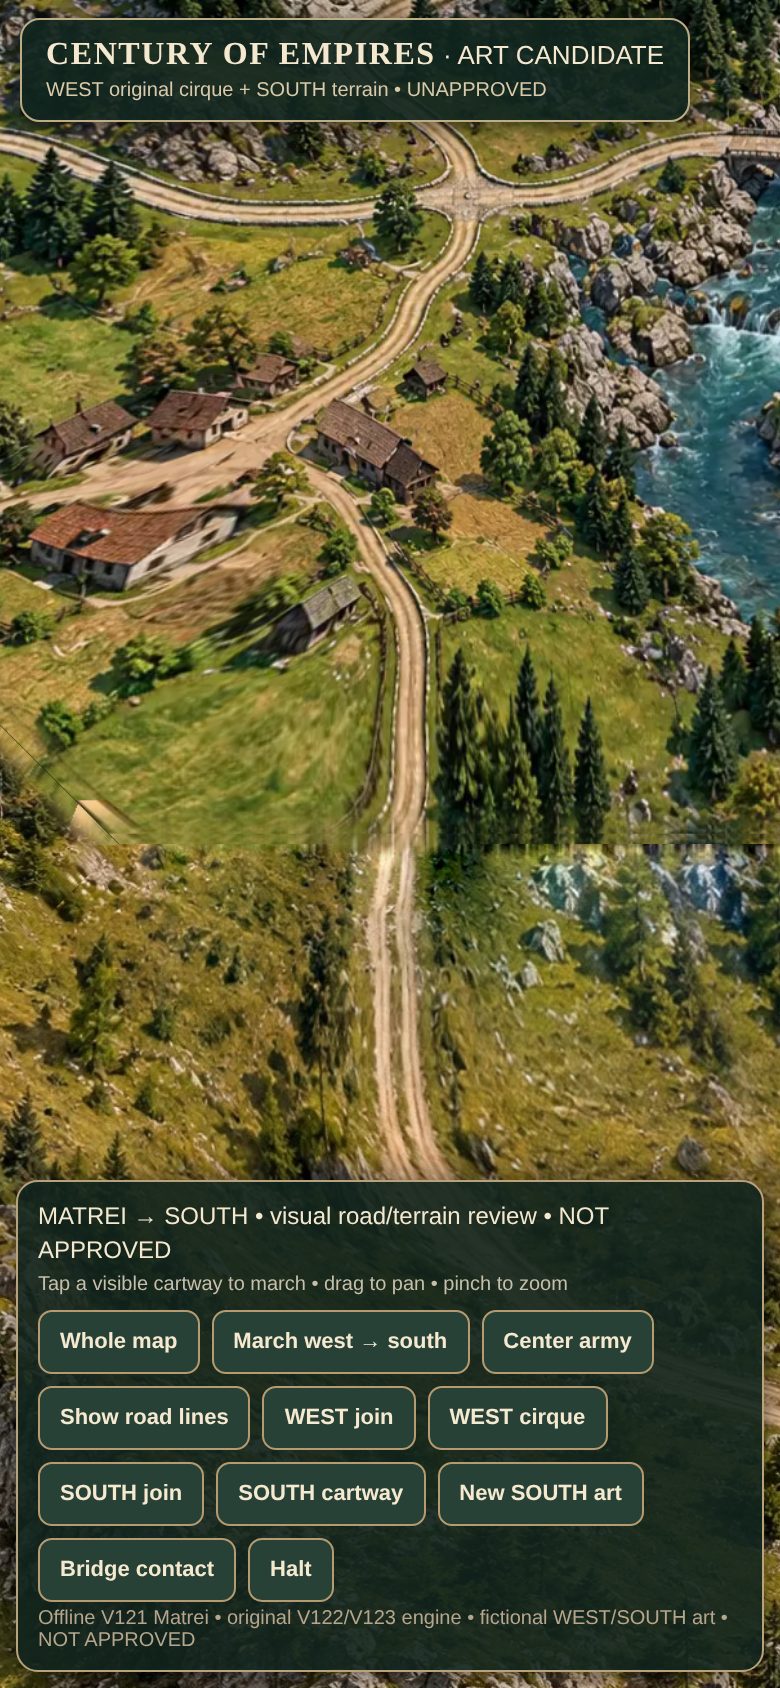
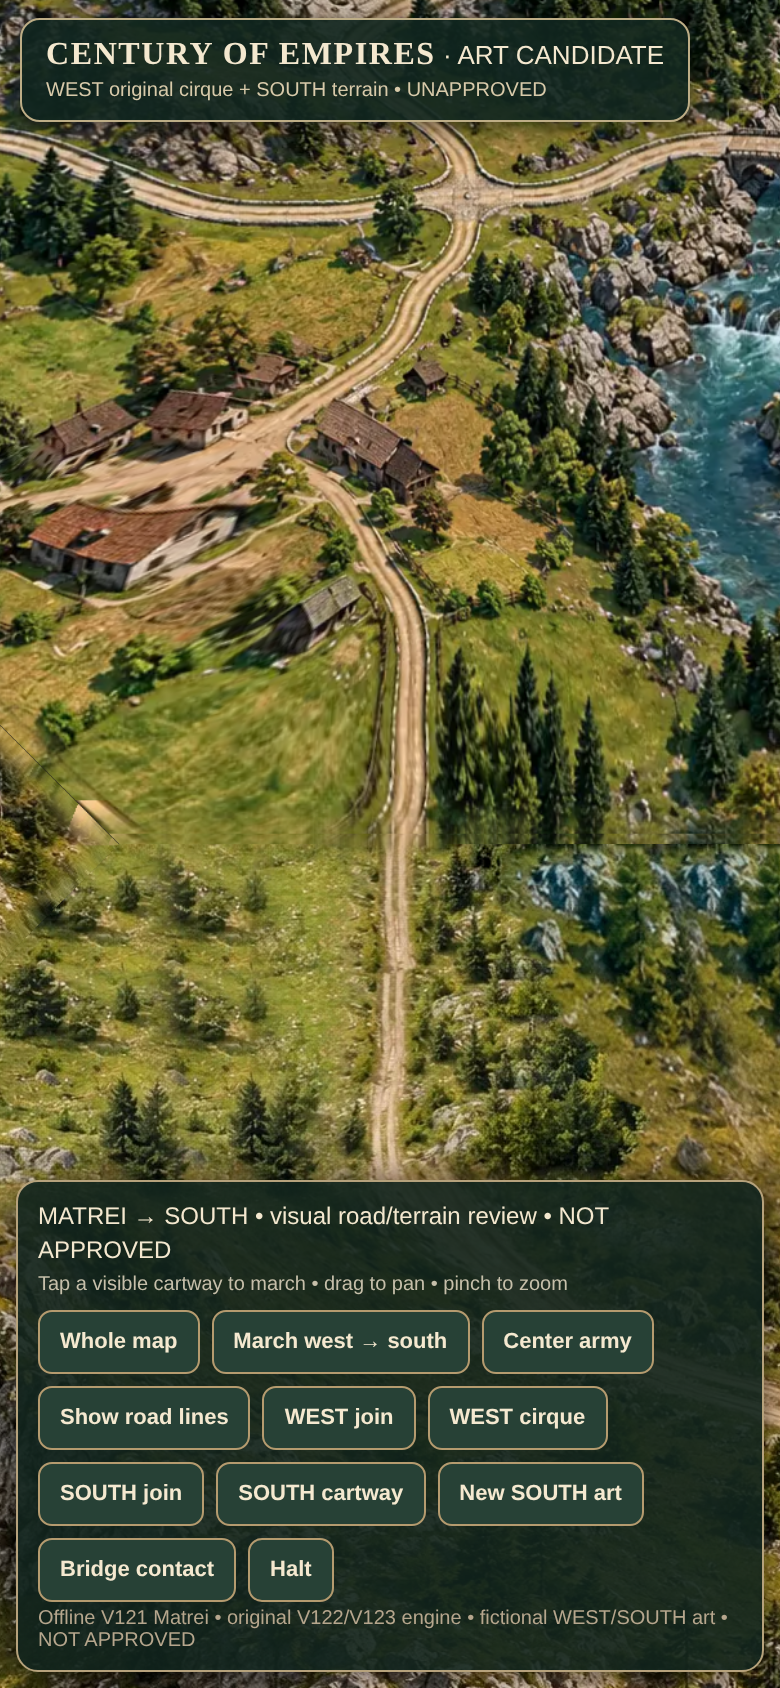
Reconstruct SOUTH native forest contact and preserve real mobile views

Changed region(s): [[0.0, 0.4621, 1.0, 0.7393]]

diff --git a/art-reviews/v267-forest-river-continuity-review.md b/art-reviews/v267-forest-river-continuity-review.md
@@ -1,10 +1,13 @@
-# V267 native SOUTH riverbank and forest contact — UNAPPROVED
+# SOUTH original-photo meadow and riverbank reconstruction — UNAPPROVED
 
-Fictional original Alpine game art, not historically verified terrain.
+Fictional Alpine atlas art, not historically verified topography.
 
-The previous cloned rectangular forest stand is removed. The full 1536×1024 native SOUTH photographic terrain is restored from the earlier durable river-east source, preserving the original meadow, individual conifers, cliff faces, turquoise gorge and stone bridge. A 270px northern material-contact region uses a three-scale photographic boundary reconstruction against the actual rendered Matrei bottom edge: 18px fine, 92px medium and 270px broad. No pixels are translated, resized or mirrored; no synthetic road or route graph edges are introduced. The x466 original cartway geometry, bridge below y270 and all lower SOUTH art are untouched. The protected V121 source, 100-node V123 graph, V94 campaign, sprites, saves and production are unchanged.
+Restored the natural, undistorted upper-west SOUTH meadow, road and conifers from the original 1536x1024 stone-bridge artwork while retaining the separately registered eastern gorge/river and its original stone bridge. A photographic low-energy graph-cut seam runs through meadow pixels rather than trees or water. The replacement ends on an irregular ground boundary; neither source photograph is globally warped, scaled, mirrored or painted with a synthetic cartway. The V123 x466 cartway and the original bridge stay in place.
 
-This remains an OPT-IN ?southArt=river candidate. Actual browser phone-size views and physical iPhone review are needed. The cliff and river morphology still differ across the boundary, and pixel contact alone does not constitute visual approval. Production RED.
+Seam x range: 550..752; northern-region mean RGB change: 15.04.
 
-Input SHA256: 40436e70d3306e836055161017f6514a00dec6875138beca2681db712dab667d
-Output SHA256: e5e7babe4d8cedb0f26d10c96810623ef7496512cb7a0725717fc9eba607aa23
+Still an OPT-IN ?southArt=river review candidate. The Matrei/SOUTH rock and river morphology requires eyes-on iPhone inspection; numerical alignment does not establish artistic acceptance. V121 source, V123 100-node graph, V94, sprites, saves and production unchanged. Production RED.
+
+WEST source SHA256: 46efdd3cfd7df0163330445f7841e3e35502a317c3780f80cfd4a18444901103
+RIVER source SHA256: 40436e70d3306e836055161017f6514a00dec6875138beca2681db712dab667d
+Output SHA256: af13b829aaef2d6805af62b8a16840f167be76d1d550cbfc2c954d2a826d0d42
